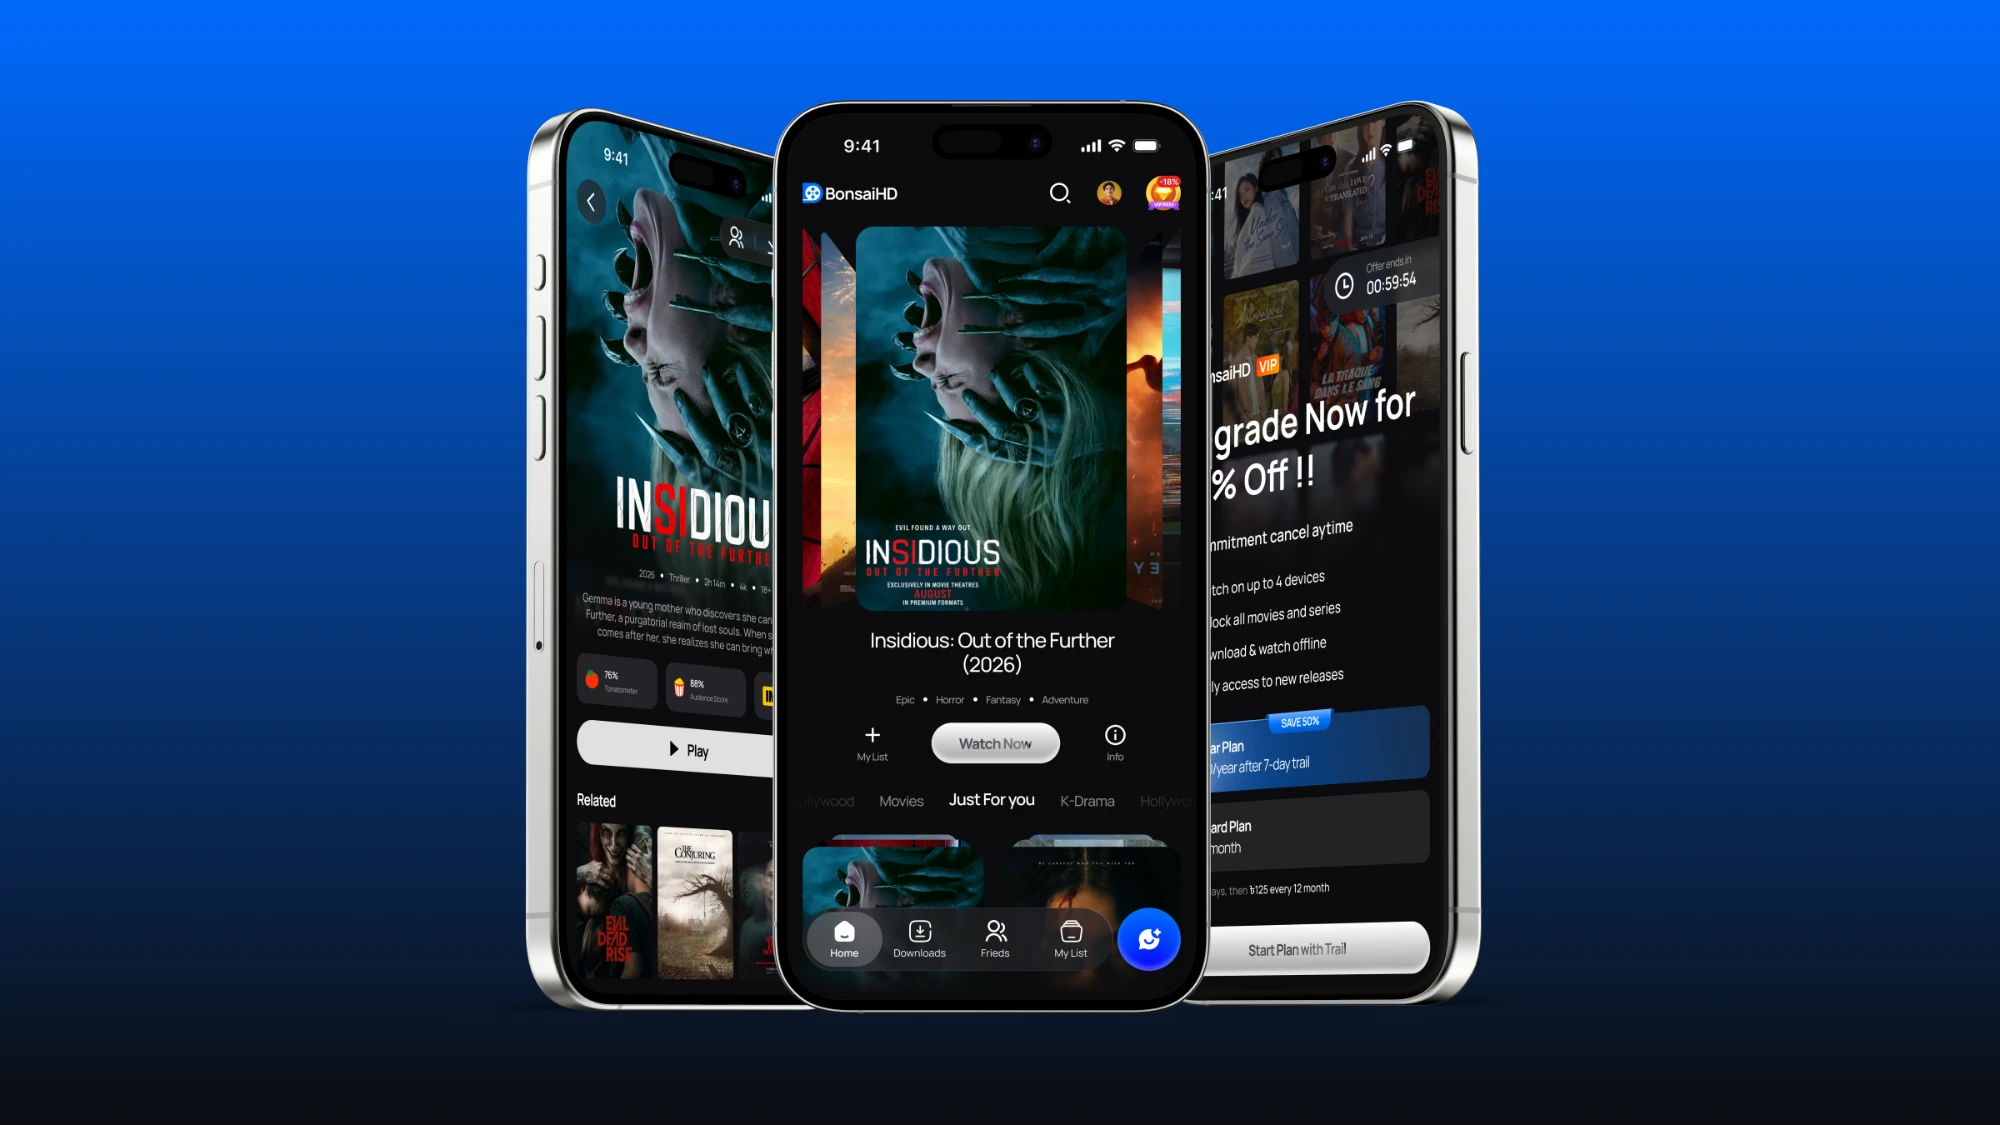
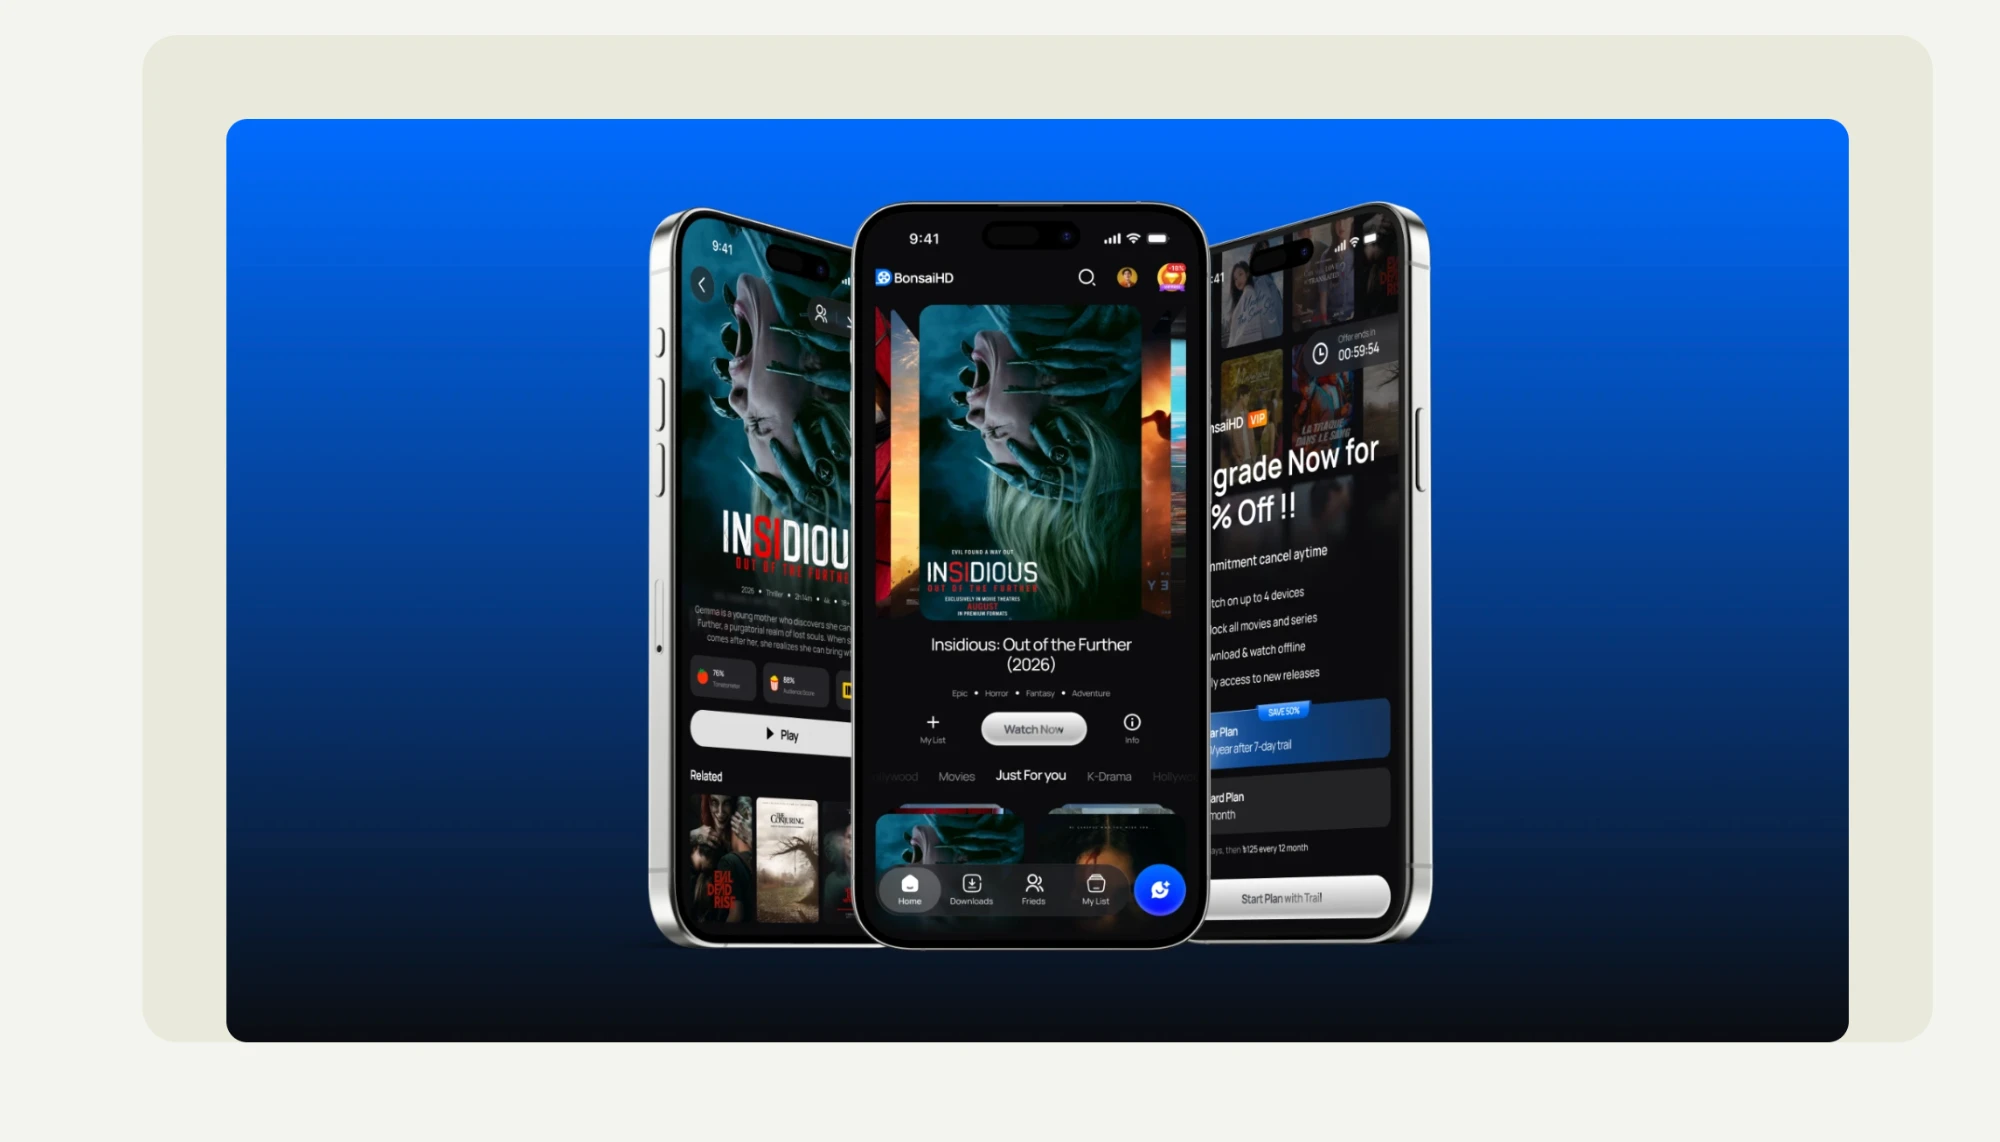
Replace BonsaiHD images with cleaner 2-up mockup versions
- bonsai-hero.webp: new framed 3-phone hero on blue gradient
- bonsai-ai-screens.webp: 2-up of AI mood selector and chat result (wide slot)
- bonsai-vip-profile.webp: 2-up of VIP upgrade and profile (end slot)
- CASE_SHOTS updated: pair slots cleared, wide and end use 2-up landscape images

diff --git a/app/legacy-runtime.js b/app/legacy-runtime.js
@@ -605,12 +605,10 @@ const CASE_SHOTS = {
             ['pg-customer-receipt.png', 'Receipt', 'A definite result the customer can keep.', 1]],
     end: ['pg-dash-full.webp', 'Report & analytics', 'KPIs with trends, transaction performance, payment-method mix, refunds, chargebacks, collection breakdown and a monthly report.'] },
   'bonsaihd': {
-    pair1: [['bonsai-ai-result.webp', 'Ask Bonsai AI — result', 'Mood matched to a 98% best pick. One prominent card, instant Play.', 1],
-            ['bonsai-ai-mood.webp', 'Ask Bonsai AI — mood selector', 'The chatbot opens with a mood question and emoji-based chips to start the recommendation flow.', 1]],
-    wide: ['bonsai-watch-party.webp', 'Watch With Friends', 'Room code, QR link, seat visualisation and one-tap invite for up to 8 people — alongside the video player with sync controls.'],
-    pair2: [['bonsai-vip.webp', 'VIP upgrade', 'Countdown offer, feature checklist and plan comparison before asking for commitment.', 1],
-            ['bonsai-profile.webp', 'Profile', 'Movies and series watched, upgrade banner, watchlist, history, downloads and settings.', 1]],
-    end: ['bonsai-screens.webp', 'App overview', 'Profile, paywall, VIP state, home with AI recommendation and chatbot — the full BonsaiHD experience across screens.'] },
+    pair1: null,
+    wide: ['bonsai-ai-screens.webp', 'Ask Bonsai AI', 'Mood selector and best-match result: the AI opens with a mood question, then surfaces a single 98% match with an instant Play button.'],
+    pair2: null,
+    end: ['bonsai-vip-profile.webp', 'VIP upgrade & Profile', 'A countdown offer with plan comparison before commitment; the profile tracks movies and series watched alongside watchlist and settings.'] },
 };
 
 function caseFig(im, size, cls){
